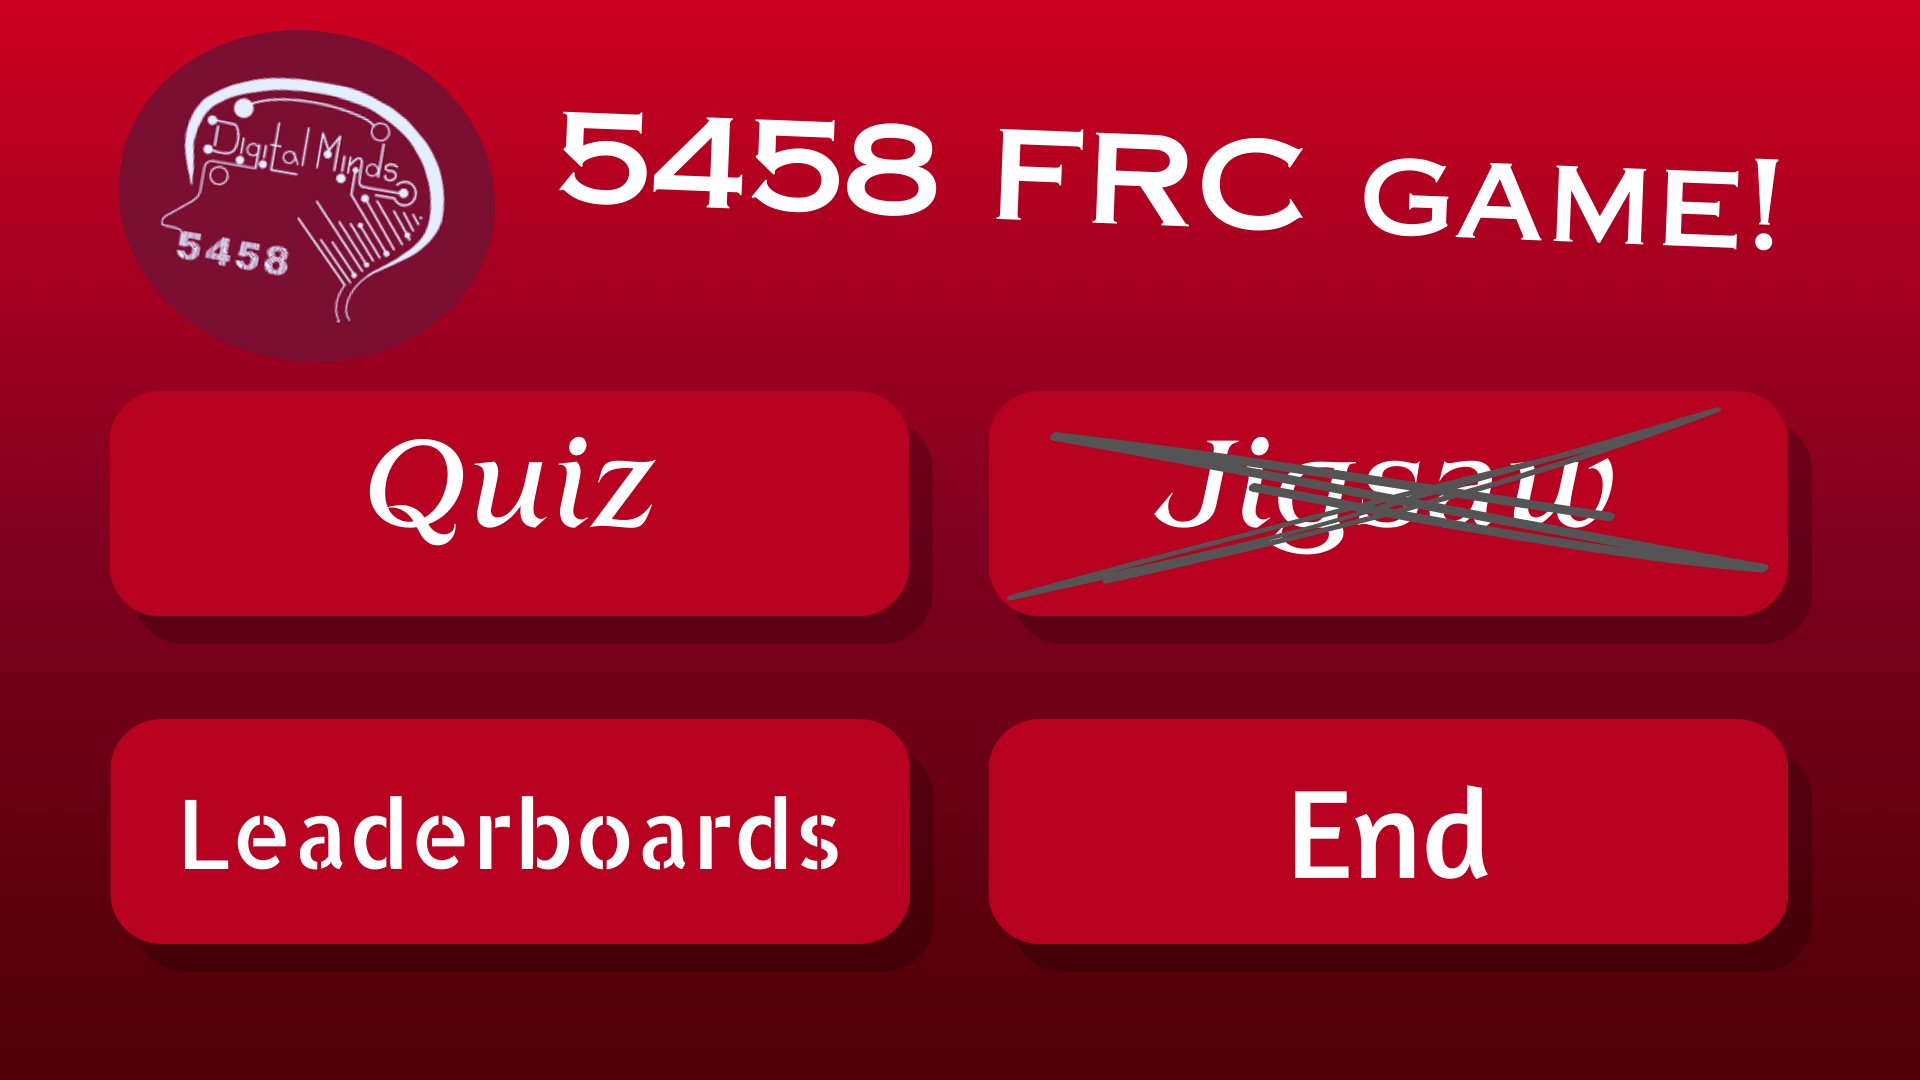
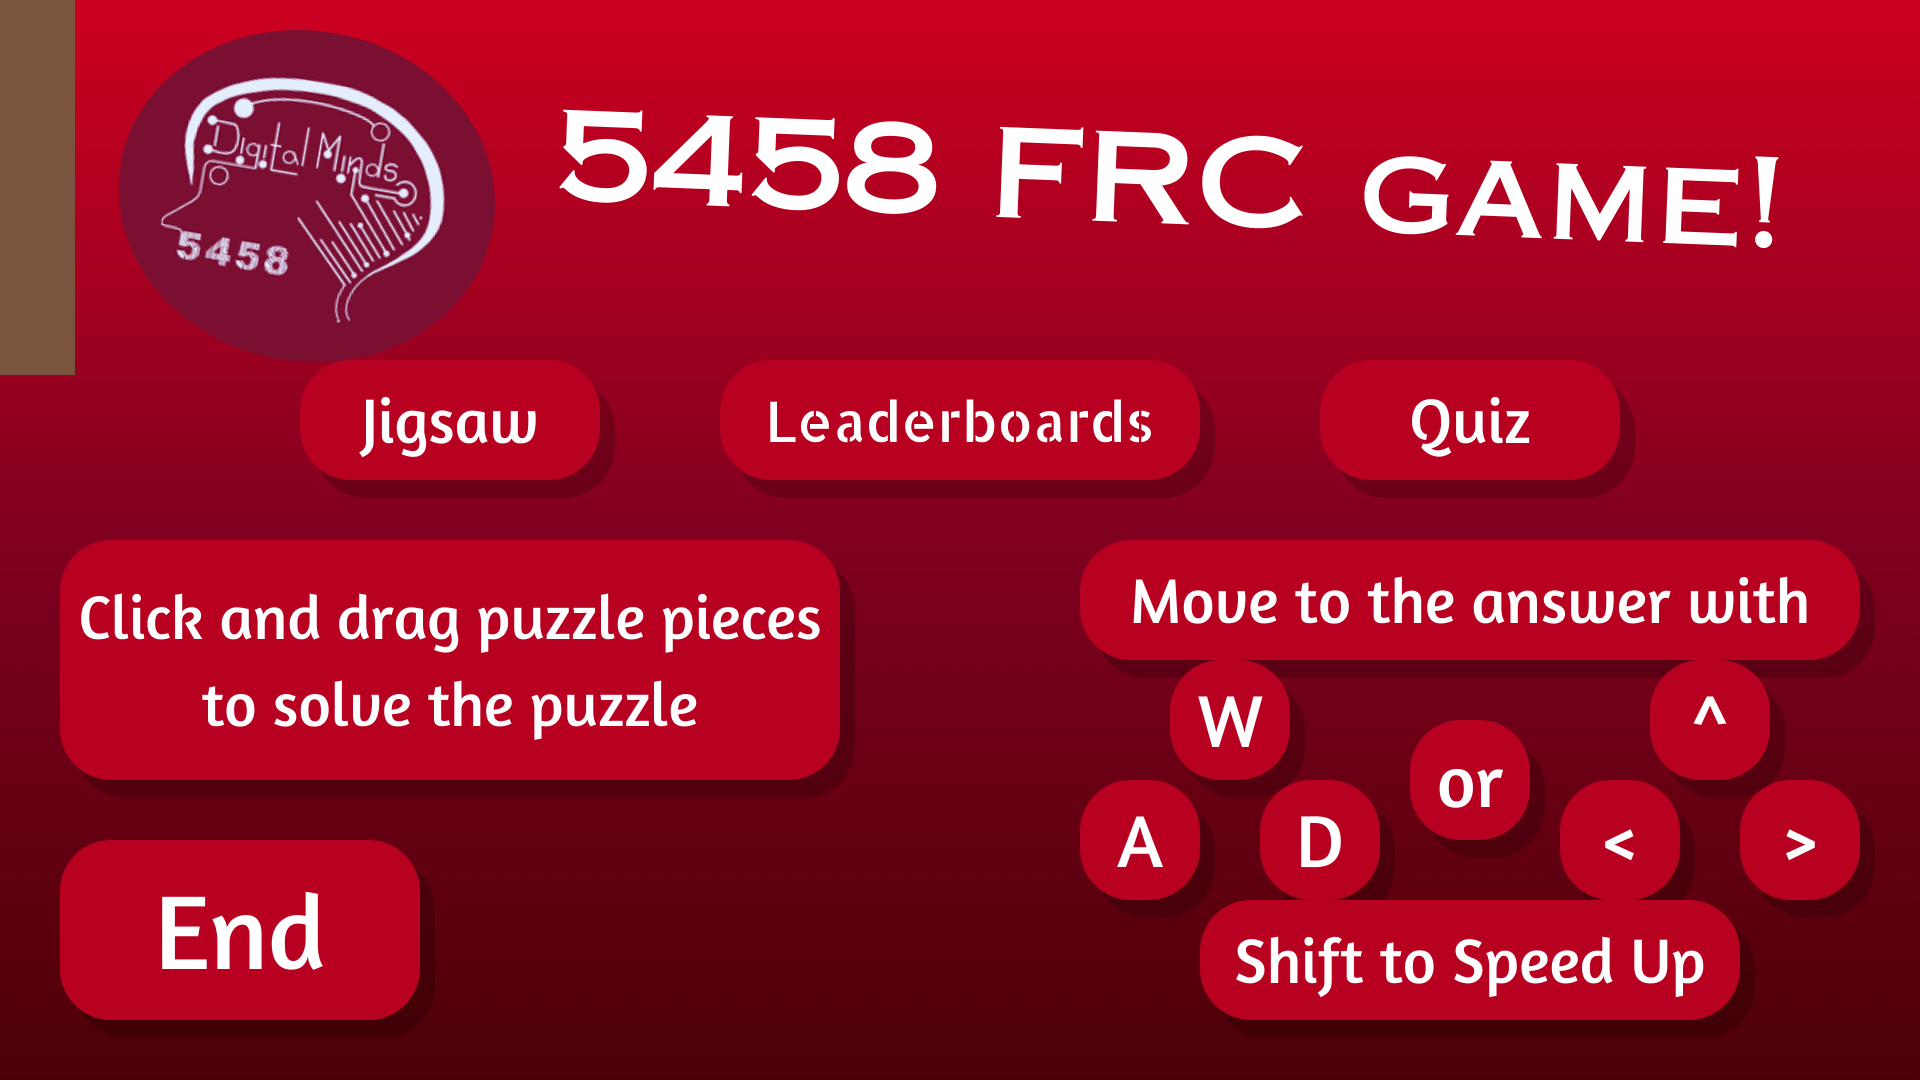
Fixed some issues need to add new menu images!

diff --git a/src/main.py b/src/main.py
@@ -19,7 +19,7 @@ import constants
 def main():
     pygame.init()
    
-    BACKGROUND = (150, 150, 150) #making the background color
+    BACKGROUND = (250, 150, 150) #making the background color
    
     world = pymunk.Space()
     world.gravity = (0, 1000) #sets gravity
@@ -68,8 +68,7 @@ def main():
     class Player():
         def __init__(self, startx, starty, width, height):
             self.qnum = 1
-           # self.qnum2 = random.randint(1,qAmount-5)
-            self.qnum2 = 8
+            self.qnum2 = random.randint(1,qAmount-5)
             self.dir = 'right'
             self.width = width
             self.height = height
@@ -137,7 +136,7 @@ def main():
     class Line():
         def __init__(self, firstpoint, secondpoint, ela, fric):
             self.point1, self.point2 = firstpoint, secondpoint
-            self.width = screenSize[0]//screenSize[1]*6 #Width of lines
+            self.width = screenSize[0]//screenSize[1]*13 #Width of lines
            
             self.lineBody = pymunk.Body(body_type=pymunk.Body.STATIC) #anchoring the floor
             self.lineShape = pymunk.Segment(self.lineBody, (self.point1), (self.point2), self.width) #connecting the two points to form floor line
@@ -145,7 +144,7 @@ def main():
             self.lineShape.friction = fric # idk lol
             world.add(self.lineShape, self.lineBody) #creating the land like god did on the third day  
         def draw(self):
-            pygame.draw.line(screen, (0,0,0), (self.point1), (self.point2), self.width)
+            pygame.draw.line(screen, (0,0,0), (self.point1), (self.point2), self.width//2)
    
     #class for writing text
     class text():
@@ -176,15 +175,14 @@ def main():
     random.shuffle(var.currAnswers) #shuffles the position of the answers
    
     #displaying the question answers on the colored zones
-    b = screenSize[0]/1470.0
-    #b = 1
-    y = (840/len(var.currAnswers[0]))//b
+    b = screenSize[0]/825.806451613
+    y = (800/len(var.currAnswers[0]))//b
     text1 = text('Go-Mono.ttf', var.currAnswers[0], screenSize[0]/8, screenSize[1]*5/6, int(y))
-    y = (840/len(var.currAnswers[1]))//b
+    y = (800/len(var.currAnswers[1]))//b
     text2 = text('Go-Mono.ttf', var.currAnswers[1], screenSize[0]*3/8, screenSize[1]*5/6, int(y))
-    y = (840/len(var.currAnswers[2]))//b
+    y = (800/len(var.currAnswers[2]))//b
     text3 = text('Go-Mono.ttf', var.currAnswers[2], screenSize[0]*5/8, screenSize[1]*5/6, int(y))
-    y = (840/len(var.currAnswers[3]))//b
+    y = (800/len(var.currAnswers[3]))//b
     text4 = text('Go-Mono.ttf', var.currAnswers[3], screenSize[0]*7/8, screenSize[1]*5/6, int(y))
     question = text('Go-Mono.ttf', currQuestion, screenSize[0]/2, screenSize[1]/8, screenSize[0]//32)
             
@@ -236,14 +234,14 @@ def main():
             print(len(str(var.currAnswers[1])))
             print(len(str(var.currAnswers[2])))
             print(len(str(var.currAnswers[3])))
-            b = screenSize[0]/1470.0
-            y = (600/len(var.currAnswers[0]))//b
+            b = screenSize[0]/825.806451613
+            y = (800/len(var.currAnswers[0]))//b
             text1.font = pygame.font.Font(text1.textFont, int(y))
-            y = (600/len(var.currAnswers[0]))//b
+            y = (800/len(var.currAnswers[1]))//b
             text2.font = pygame.font.Font(text2.textFont, int(y))
-            y = (600/len(var.currAnswers[0]))//b
+            y = (800/len(var.currAnswers[2]))//b
             text3.font = pygame.font.Font(text3.textFont, int(y))
-            y = (600/len(var.currAnswers[0]))//b
+            y = (800/len(var.currAnswers[3]))//b
             text4.font = pygame.font.Font(text4.textFont, int(y))
             
             text1.reWrite(var.currAnswers[0])
@@ -259,6 +257,7 @@ def main():
     first = True
     rotate = False
     num = 0
+    term = 60
     while RUNNING:
        
         timeSecond = pygame.time.get_ticks()//1000
@@ -386,8 +385,9 @@ def main():
                     if(player.angle_degrees > 89 or player.angle_degrees < -89):
                         rotate = True
                         num = 0
-                if event.key == pygame.K_LSHIFT:
-                    vel = 600
+                if (event.key == pygame.K_LSHIFT) or (event.key == pygame.K_RSHIFT):
+                    vel = 300
+                    term = 40
             if event.type == pygame.KEYUP: #if there is a key up then see which key(s) are up and respond
                 if (event.key == pygame.K_LEFT) or (event.key == pygame.K_a):
                     left = False
@@ -406,6 +406,7 @@ def main():
                         player.ball_body.velocity = first1
                 if event.key == pygame.K_LSHIFT:
                     vel = 300
+                    term = 60
         #if(player.ball_shape.collision_type = )
         #print(int(player.angle_degrees))
         if right:
@@ -455,7 +456,7 @@ def main():
                 num = 0'''
         pygame.display.update()
        
-        world.step(1/60.0)
+        world.step(1/term)
         clock.tick(60)
     time.sleep(2)
     

diff --git a/src/menu.py b/src/menu.py
@@ -197,6 +197,7 @@ def runButton(event):
             pList.append(Label(root, text=(z[pz]), font=("Arial", 20), background='#b80020', foreground=('#FFFFFF')))
     x = event.x
     y = event.y
+    print(x,y)
     #menu page 1
     if(Variables.activated[0] == 1 and Variables.activated[1] == 1):
         background_image = Image.open(cwd + "\\images\\menu7.png")
@@ -230,20 +231,20 @@ def runButton(event):
         backgroundlabel.image = background_image
         backgroundlabel.update()
     if(Variables.background_label == 1):
-        if(int(screen_height * (13/36)) < y and y < int(screen_height * (41/72))):
-            if(int(screen_width* (9/160)) < x and x < int(screen_width * (15/32)) and Variables.activated[0] == 0):
+        if(int(screen_height * (4/9)) > y and y > int(screen_height * (3/9))):
+            if(int(screen_width* (27/32)) > x and x > int(screen_width * (22/32)) and Variables.activated[0] == 0):
                 Variables.activated[0] = 1
                 Variables.activated[1] = 0
                 run_quiz()
 
-            if(int(screen_width* (33/64)) < x and x < int(screen_width * (89/96)) and Variables.activated[1] == 0):
+            if(int(screen_width* (10/32)) > x and x > int(screen_width * (5/32))and Variables.activated[1] == 0):
                 choose_jigsaw_image()
-
-        elif(int(screen_height * (2/3)) < y and y < int(screen_height * (7/8))):
-            if(int(screen_width* (9/160)) < x and x < int(screen_width * (15/32))):
+                
+            if(int(screen_width* (18/32)) > x and x > int(screen_width * (15/32))):
                 switchLeaderboard()
-
-            if(int(screen_width* (33/64)) < x and x < int(screen_width * (89/96))):
+                
+        elif(int(screen_height * (7/9)) < y and y < int(screen_height * (31/32))):
+            if(int(screen_width* (1/32)) < x and x < int(screen_width * (7/32))):
                 exit_program()
 
     #menu page 2 (leaderboard menu)

diff --git a/src/start.py b/src/start.py
@@ -74,42 +74,10 @@ def show_user_name():
                     pygame.quit()
 
         SCREEN.fill(BURGANDY)
-        image = pygame.image.load(cwd + "\\images\\menu10.png")
-        image = pygame.transform.scale(image,(WIDTH, HEIGHT))
+        #image = pygame.image.load(cwd + "\\images\\menu10.png")
+        #image = pygame.transform.scale(image,(WIDTH, HEIGHT))
         SCREEN.blit(image, (0, 0))
         
-        if(var.first):
-            person = {
-                "initial": var.initial,
-                "team": var.team,
-                "points": 0
-            }
-            with open(cwd + "\\dat\\currentPerson.pkl", "wb") as f:
-                f.truncate(0)
-                pickle.dump(person, f)
-            while(var.first):
-                events = pygame.event.get()
-                for event in events:
-                    if event.type == pygame.MOUSEBUTTONDOWN:
-                        var.first = False
-                clock.tick(60)
-                pygame.display.update()
-              
-            '''  TESTING FOR FILE READING DICTIONARY
-            with open(cwd + "\\dat\\currentPerson.pkl", 'rb') as f:
-                x = pickle.load(f)
-            x['points'] = 1000
-            print(x['points'])
-            
-            with open(cwd + "\\dat\\currentPerson.pkl", "wb") as f:
-                f.truncate(0)
-                pickle.dump(x, f)
-                
-            with open(cwd + "\\dat\\currentPerson.pkl", 'rb') as f:
-                x = pickle.load(f)
-            print(x['points'])
-            '''
-                
         clock.tick(60)
         pygame.display.update()
         subprocess.run(["python", cwd + "\\src\\menu.py"])
